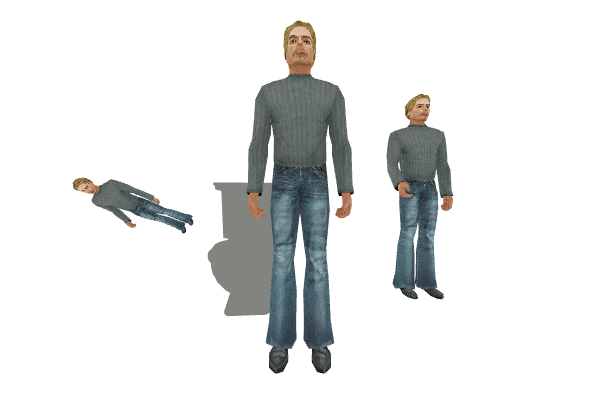
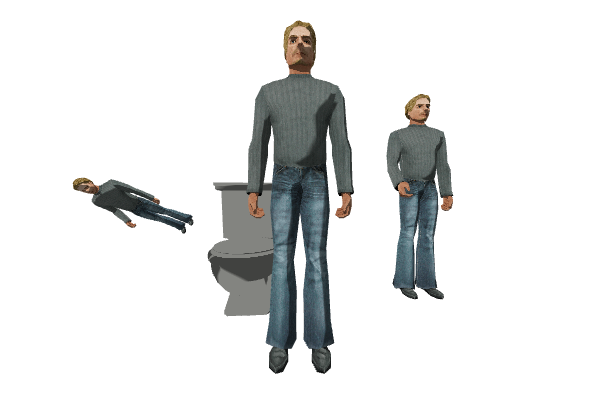
sharp light shaders

diff --git a/src/shaders/directLight.fragment.ts b/src/shaders/directLight.fragment.ts
@@ -4,7 +4,9 @@ import {
   makeUniformVec3Setter,
 } from '../engine/shaders/utils';
 
-export { default as fragmentSource } from './directLight.fragment.glsl?raw';
+// export { default as fragmentSource } from './directLight.fragment.glsl?raw';
+export { default as fragmentSource } from './directLightSharpMk1.fragment.glsl?raw';
+// export { default as fragmentSource } from './directLightSharpMk2.fragment.glsl?raw';
 
 export function initFragment(gl: GL, { glProgram }: ShaderProgramInitial) {
   return {

diff --git a/src/engine/scene.ts b/src/engine/scene.ts
@@ -53,6 +53,7 @@ export function setupScene({
   mat4.translate(cameraMat, cameraMat, [0, 0, -2]);
 
   const lightDirection = vec3.fromValues(-5, 10, 4);
+  vec3.normalize(lightDirection, lightDirection);
 
   const scene: Scene = {
     gl: glContext.gl,
